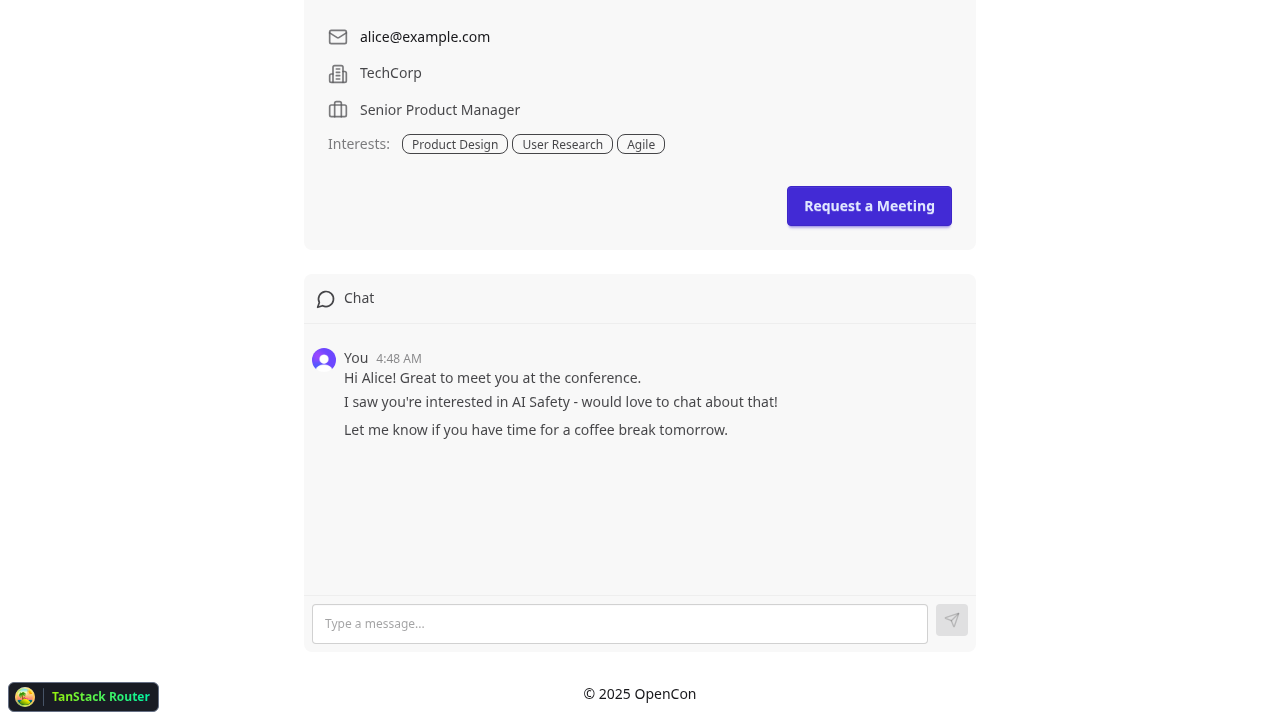
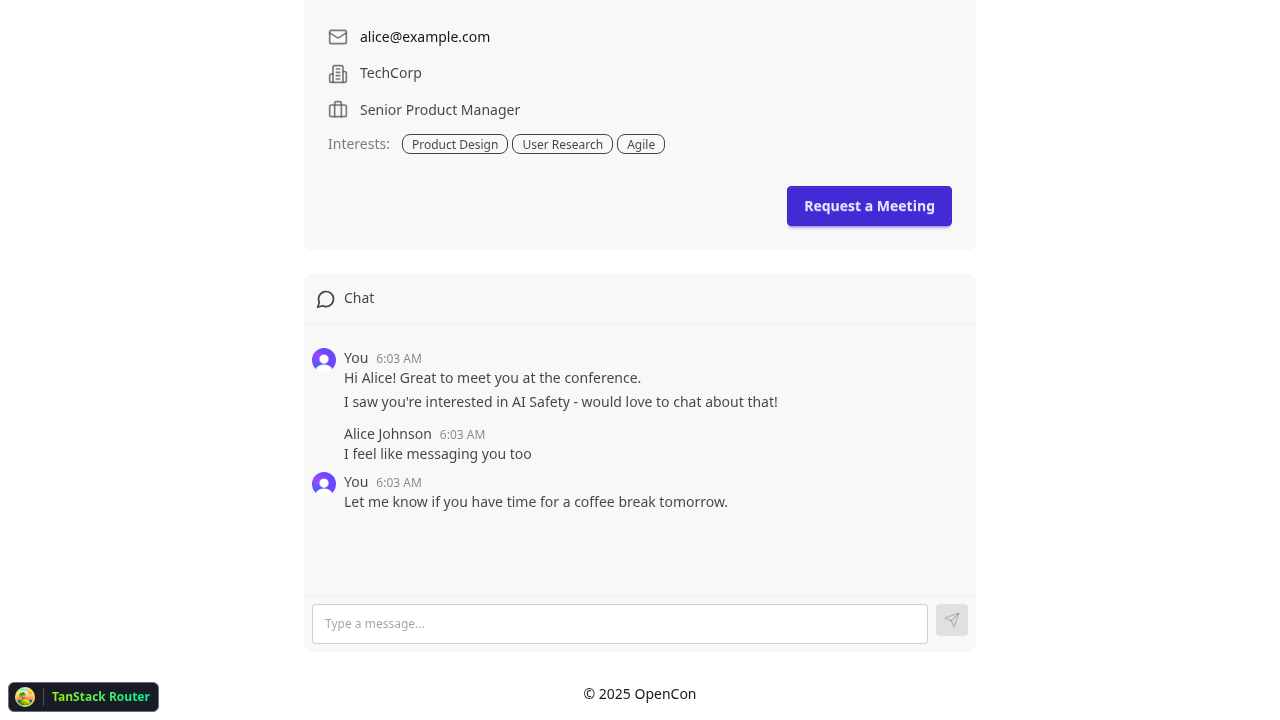
+chat auto replies

Changed region(s): [[0.25, 0.5806, 0.5625, 0.6417], [0.25, 0.6417, 0.5625, 0.7028]]

diff --git a/convex/chatRoomMessages.ts b/convex/chatRoomMessages.ts
@@ -1,4 +1,5 @@
-import { mutation, query } from "./_generated/server";
+import { internalMutation, mutation, query } from "./_generated/server";
+import { internal } from "./_generated/api";
 import { ConvexError, v } from "convex/values";
 import { getCurrentUserOrCrash } from "./users";
 
@@ -71,6 +72,113 @@ export const send = mutation({
       lastMessageAt: Date.now(),
     });
 
+    // Check if any other participant is a demo bot and trigger reply
+    const roomUsers = await ctx.db
+      .query("chatRoomUsers")
+      .withIndex("by_chatRoom", (q) => q.eq("chatRoomId", args.chatRoomId))
+      .collect();
+
+    for (const roomUser of roomUsers) {
+      if (roomUser.userId === currentUser._id) continue;
+
+      const otherUser = await ctx.db.get(roomUser.userId);
+      if (otherUser?.isDemoBot) {
+        await ctx.scheduler.runAfter(
+          500,
+          internal.chatRoomMessages.demoBotReply,
+          {
+            chatRoomId: args.chatRoomId,
+            botUserId: roomUser.userId,
+            triggerMessageLength: args.content.length,
+          },
+        );
+      }
+    }
+
     return messageId;
+  },
+});
+
+export const demoBotReply = internalMutation({
+  args: {
+    chatRoomId: v.id("chatRooms"),
+    botUserId: v.id("users"),
+    triggerMessageLength: v.number(),
+  },
+  handler: async (ctx, args) => {
+    const now = Date.now();
+
+    // Deterministic action based on message length mod 5
+    // 0 = do nothing
+    // 1 = "I feel like messaging you too"
+    // 2 = reply to a random message with "I feel like replying to this message"
+    // 3 = two messages: "Hey there" then "actually I have more to say"
+    // 4 = do nothing (alternate quiet option)
+    const action = args.triggerMessageLength % 5;
+
+    if (action === 0 || action === 4) {
+      return;
+    }
+
+    if (action === 1) {
+      await ctx.db.insert("chatRoomMessages", {
+        chatRoomId: args.chatRoomId,
+        senderId: args.botUserId,
+        content: "I feel like messaging you too",
+      });
+      await ctx.db.patch(args.chatRoomId, { lastMessageAt: now });
+    } else if (action === 2) {
+      const messages = await ctx.db
+        .query("chatRoomMessages")
+        .withIndex("by_chatRoom", (q) => q.eq("chatRoomId", args.chatRoomId))
+        .collect();
+
+      if (messages.length > 0) {
+        const randomIndex = args.triggerMessageLength % messages.length;
+        const parentMessage = messages[randomIndex];
+
+        await ctx.db.insert("chatRoomMessages", {
+          chatRoomId: args.chatRoomId,
+          senderId: args.botUserId,
+          content: "I feel like replying to this message",
+          parentMessageId: parentMessage._id,
+        });
+        await ctx.db.patch(args.chatRoomId, { lastMessageAt: now });
+      }
+    } else if (action === 3) {
+      await ctx.db.insert("chatRoomMessages", {
+        chatRoomId: args.chatRoomId,
+        senderId: args.botUserId,
+        content: "Hey there",
+      });
+
+      await ctx.scheduler.runAfter(
+        300,
+        internal.chatRoomMessages.demoBotSendFollowUp,
+        {
+          chatRoomId: args.chatRoomId,
+          botUserId: args.botUserId,
+          content: "actually I have more to say",
+        },
+      );
+
+      await ctx.db.patch(args.chatRoomId, { lastMessageAt: now });
+    }
+  },
+});
+
+export const demoBotSendFollowUp = internalMutation({
+  args: {
+    chatRoomId: v.id("chatRooms"),
+    botUserId: v.id("users"),
+    content: v.string(),
+  },
+  handler: async (ctx, args) => {
+    await ctx.db.insert("chatRoomMessages", {
+      chatRoomId: args.chatRoomId,
+      senderId: args.botUserId,
+      content: args.content,
+    });
+    await ctx.db.patch(args.chatRoomId, { lastMessageAt: Date.now() });
   },
 });

diff --git a/convex/seed.ts b/convex/seed.ts
@@ -70,6 +70,7 @@ export const seedData = internalMutation({
         interests: ["Product Design", "User Research", "Agile"],
         canHelpWith: "Product strategy, roadmap planning, stakeholder management, user interviews, and prioritization frameworks",
         needsHelpWith: "Technical architecture decisions, scaling engineering teams, and understanding ML/AI capabilities",
+        isDemoBot: true,
       },
       {
         clerkId: "seed_user_2",
@@ -81,6 +82,7 @@ export const seedData = internalMutation({
         interests: ["React", "Node.js", "Cloud Architecture"],
         canHelpWith: "System design, code reviews, React performance optimization, and building scalable APIs",
         needsHelpWith: "Product thinking, understanding user needs, and design feedback for developer tools",
+        isDemoBot: true,
       },
       {
         clerkId: "seed_user_3",
@@ -92,6 +94,7 @@ export const seedData = internalMutation({
         interests: ["Content Marketing", "SEO", "Brand Strategy"],
         canHelpWith: "Go-to-market strategy, content marketing, brand positioning, and growth experiments",
         needsHelpWith: "Understanding technical products, analytics implementation, and developer marketing",
+        isDemoBot: true,
       },
       {
         clerkId: "seed_user_4",
@@ -103,6 +106,7 @@ export const seedData = internalMutation({
         interests: ["UI/UX", "Design Systems", "Accessibility"],
         canHelpWith: "Design critiques, building design systems, accessibility audits, and user testing facilitation",
         needsHelpWith: "Frontend implementation best practices, motion design, and 3D/WebGL experiences",
+        isDemoBot: true,
       },
       {
         clerkId: "seed_user_5",
@@ -114,6 +118,7 @@ export const seedData = internalMutation({
         interests: ["Machine Learning", "Python", "Data Visualization"],
         canHelpWith: "Data analysis, ML model selection, experiment design, and building data pipelines",
         needsHelpWith: "Deploying ML models to production, MLOps best practices, and communicating insights to non-technical stakeholders",
+        isDemoBot: true,
       },
     ];
 
@@ -129,6 +134,10 @@ export const seedData = internalMutation({
         const id = await ctx.db.insert("users", userData);
         seedUserIds.push(id);
       } else {
+        // Ensure isDemoBot is set on existing seed users
+        if (!existing.isDemoBot) {
+          await ctx.db.patch(existing._id, { isDemoBot: true });
+        }
         seedUserIds.push(existing._id);
       }
     }

diff --git a/e2e/app.spec.ts b/e2e/app.spec.ts
@@ -269,6 +269,9 @@ test.describe("E2E User Flow", () => {
     await sendButton.click();
     await expect(page.getByText("Let me know if you have time for a coffee break tomorrow.")).toBeVisible();
 
+    // Alice is a demo bot - verify she replies (500ms scheduled delay + network)
+    await expect(page.getByText("I feel like messaging you too")).toBeVisible({ timeout: 2000 });
+
     await screenshot(page, "chat-embed-user-profile");
 
     // Navigate to chats page
@@ -280,8 +283,9 @@ test.describe("E2E User Flow", () => {
 
     // Click into the chat to see split view (on desktop) or full chat (on mobile)
     await aliceChatLink.click();
-    // Verify first message is visible
-    await expect(page.getByText("Hi Alice! Great to meet you at the conference.").first()).toBeVisible();
+    // Desktop layout renders both mobile (hidden via lg:hidden) and desktop (visible) chat views
+    // Mobile view comes first in DOM, so we need to filter by visible to get the desktop one
+    await expect(page.getByText("Hi Alice! Great to meet you at the conference.").and(page.locator(":visible"))).toBeVisible();
     await screenshot(page, "chat-conversation");
 
     await signOut(page);

diff --git a/convex/schema.ts b/convex/schema.ts
@@ -92,6 +92,7 @@ export default defineSchema({
     needsHelpWith: v.optional(v.string()),
     imageUrl: v.optional(v.string()),
     calendarToken: v.optional(v.string()),
+    isDemoBot: v.optional(v.boolean()),
   })
     .index("by_clerkId", ["clerkId"])
     .index("by_email", ["email"])
